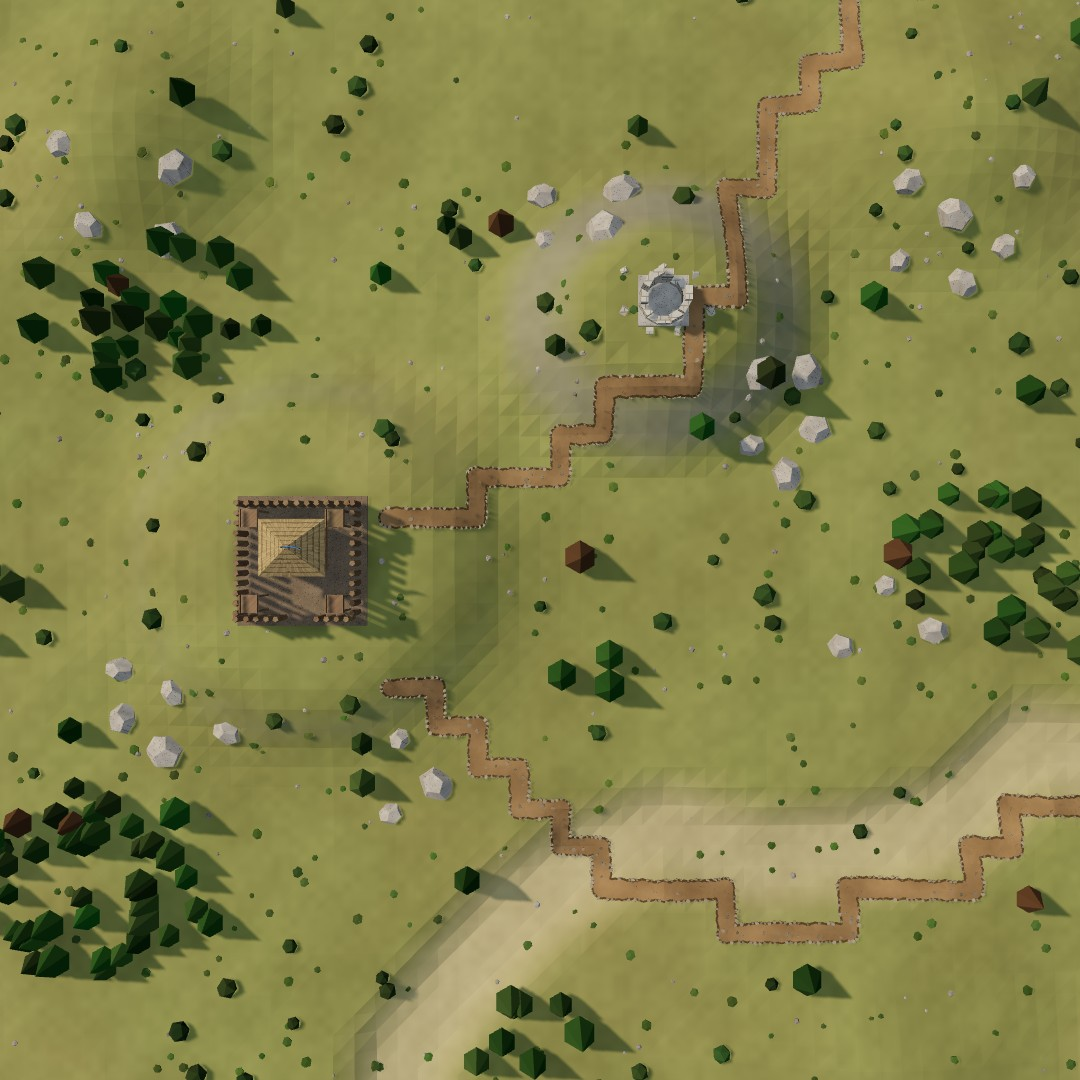
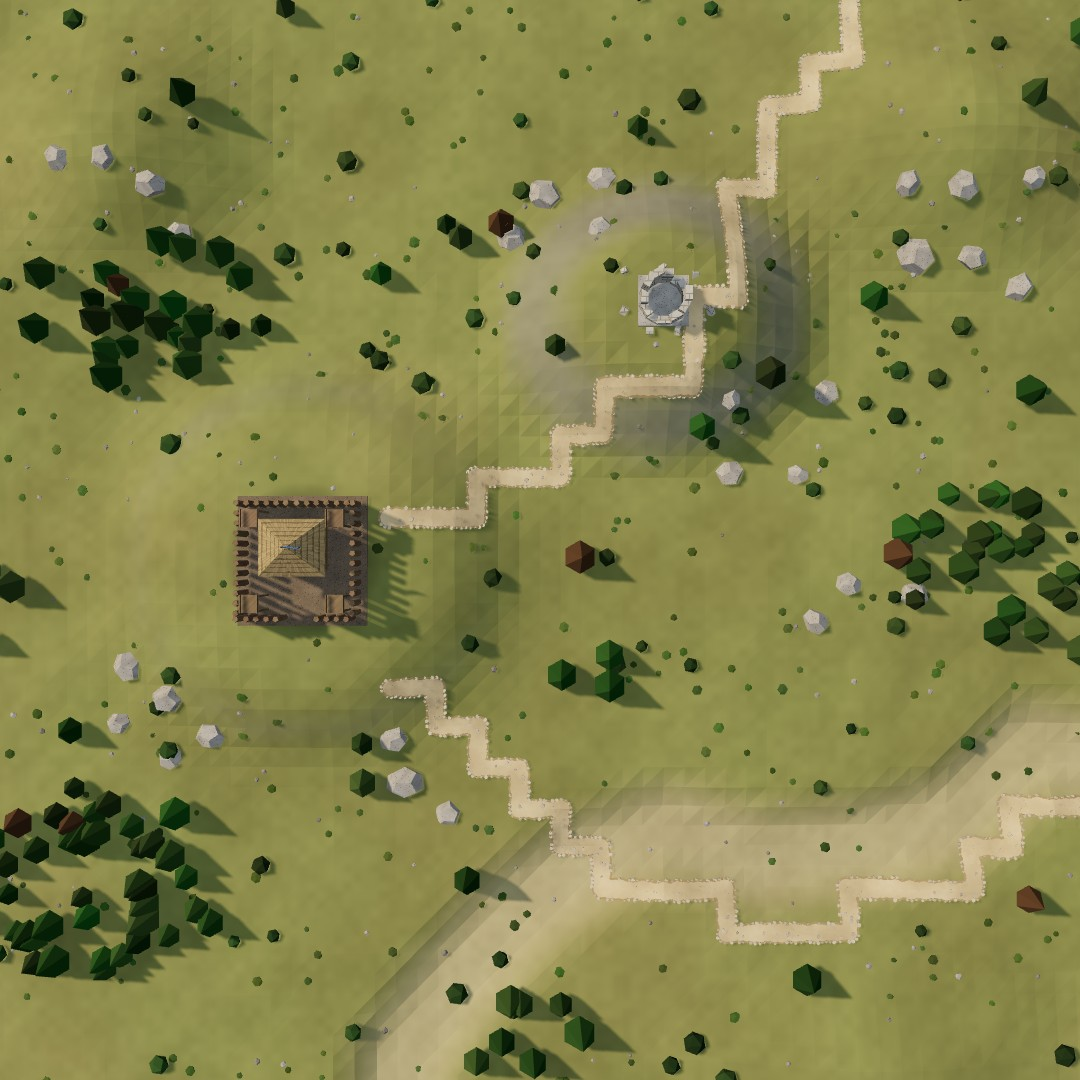
Path looks by map (gravel on Watchhill, scree on Mountain pass); stage town picker with locked options
Claude-Session: https://claude.ai/code/session_01AE8sRRsVdpH9ETfQvtppox

diff --git a/index.html b/index.html
@@ -136,6 +136,7 @@ button.danger{border-color:#6b3a33;color:var(--bad)}
 .ldOpt .tIco{width:24px;height:24px;flex:0 0 auto;display:inline-flex;color:#cfc4a6} .ldOpt .tIco svg{width:100%;height:100%;fill:none;stroke:currentColor;stroke-width:1.7;stroke-linecap:round;stroke-linejoin:round} .ldOpt[aria-pressed="true"] .tIco{color:var(--gold)} .ldOpt b{font-family:var(--display);font-weight:400;font-size:16px;color:var(--parch);line-height:1.05;display:block}
 .ldOpt small{display:block;font-size:11px;color:var(--muted)} .ldOpt small .cost .ico{width:11px;height:11px}
 .ldOpt[aria-pressed="true"]{border-color:var(--gold);background:#2e2b1e} .ldOpt[aria-pressed="true"] b{color:var(--gold)}
+.ldOpt.locked{opacity:.5;cursor:default} .ldOpt.locked b{color:var(--muted)} .lockIco{width:13px;height:13px;fill:none;stroke:currentColor;stroke-width:2;stroke-linecap:round;vertical-align:-2px} .ldOpt .tIco .lockIco{width:100%;height:100%;stroke-width:1.7}
 .ldGrid{display:grid;grid-template-columns:repeat(auto-fill,minmax(96px,1fr));gap:6px}
 .ldGrid .ldOpt{flex-direction:column;justify-content:center;align-items:center;text-align:center;gap:3px;padding:6px 4px} .ldGrid .ldOpt b{font-size:14px}
 .ldBtns{display:flex;justify-content:space-between;gap:8px;margin-top:4px} .ldBtns button{min-width:110px;min-height:42px;font-size:16px}
@@ -626,7 +627,7 @@ const CAMP_MAPS = {
   vale: { stop: 0, maxTier: 1, cats: { eco: ['house', 'farm', 'lodge', 'quarry'], def: ['tower'], decor: ['road', 'flowers', 'torch'] } },
   bridge: { stop: 1, maxTier: 1, cats: { eco: ['house', 'farm', 'lodge', 'quarry'], def: ['tower', 'barracks', 'wall', 'gate'], decor: ['road', 'flowers', 'torch', 'rack'] } },
   cross: { stop: 2, maxTier: 2, newTier: 2, cats: { eco: ['house', 'farm', 'lodge', 'quarry', 'market'], def: ['tower', 'barracks', 'wall', 'gate'], decor: ['road', 'flowers', 'torch', 'rack', 'statue'] } },
-  watch: { stop: 3, maxTier: 2, cats: { eco: ['house', 'farm', 'lodge', 'quarry', 'market'], def: ['tower', 'ballista', 'barracks', 'wall', 'gate'], decor: ['road', 'torch', 'rack', 'statue', 'campfire'] } },   // five decor tools keep a phone's dock one row: flowers make way for the campfire
+  watch: { stop: 3, maxTier: 2, cats: { eco: ['house', 'farm', 'lodge', 'quarry', 'market'], def: ['tower', 'ballista', 'barracks', 'wall', 'gate'], decor: ['road', 'flowers', 'torch', 'rack', 'statue', 'campfire'] } },   // more decor than fits: the player picks four (stage picker)
 };
 var WAVES = WAVES_STD, NIGHTS = WAVES.length, DAYLEN = [300, 150, 150, 150, 150], SPAWN_GAP = 1.1;
 function mapRules() { const R = MAP_RULES[MAP]; WAVES = R ? R.waves : WAVES_STD; NIGHTS = WAVES.length; DAYLEN = R ? R.day : [300, 150, 150, 150, 150]; SPAWN_GAP = R ? R.spawnGap : 1.1; }
@@ -1507,11 +1508,20 @@ function roadMask(a, b) {
   for (const B of buildings) { const d = B.door; if (d && d.a === a && d.b === b) m |= d.bit; }
   return m;
 }
+// path looks by map (sRGB): packed brown earth on the green maps; a pale chalky gravel track on Watchhill's dry hills;
+// grey scree on Mountain pass; base = the darker worn edge, set = flat set stones, kerb = the edge stones
+const PATH_STYLE = {
+  earth:  { top: [.47, .38, .27], base: '#4e3f2a', set: [.37, .34, .29], kerb: [.4, .38, .33] },
+  gravel: { top: [.68, .6, .45], base: '#8a7754', set: [.56, .52, .45], kerb: [.58, .54, .46] },
+  scree:  { top: [.5, .48, .44], base: '#47443d', set: [.56, .55, .53], kerb: [.6, .59, .56] },
+};
+const pathStyle = () => PATH_STYLE[MAP === 'watch' ? 'gravel' : MAP === 'pass' ? 'scree' : 'earth'];
+const lin = (sc, c, h, k) => sc.setRGB(((c[0] + k * h) ** 2.2), ((c[1] + k * .85 * h) ** 2.2), ((c[2] + k * .7 * h) ** 2.2));
 // packed earth: smooth, low-contrast colour drift by position (no per-square checker), lighter where feet wear it
 const pathTmp = new THREE.Color();
 function pathCol(x, z, col) {
   const n = .5 + .25 * Math.sin(x * 2.3 + z * 1.1) + .25 * Math.sin(x * .9 - z * 2.7), j = hash(Math.round(x * 4), Math.round(z * 4));
-  pathTmp.setRGB(.47, .38, .27).multiplyScalar(.88 + .16 * n + .06 * j);    // sRGB, converted below to match the patched colours
+  pathTmp.setRGB(...pathStyle().top).multiplyScalar(.88 + .16 * n + .06 * j);    // sRGB, converted below to match the patched colours
   col.push(pathTmp.r ** 2.2, pathTmp.g ** 2.2, pathTmp.b ** 2.2);
 }
 // the stone-based building whose footprint holds this point, if any; paths stop at its edge rather than painting over it
@@ -1546,6 +1556,7 @@ function setGeo(mesh, arr, col) {
   g.computeVertexNormals(); mesh.geometry.dispose(); mesh.geometry = g;
 }
 function rebuildRoads() {
+  const PS = pathStyle(); roadMatBase.color.set(PS.base);
   const base = [], top = [], tc = [], stones = [], doors = {}, edge = [];
   for (const B of buildings) if (B.door && !B.dead) { const [sx, sz] = doorShift(B); if (sx || sz) doors[B.door.b * N + B.door.a] = { bit: B.door.bit, sx, sz }; }
   for (let b = 0; b < N; b++) for (let a = 0; a < N; a++) if (road[b * N + a]) {
@@ -1575,14 +1586,14 @@ function rebuildRoads() {
     const r = .06 + .06 * hash(k, 1.3), h = hash(k, 7.7);
     dummy.position.set(x, hAt(x, z) + .1, z); dummy.rotation.set((h - .5) * .12, h * 6.3, (hash(k, 4.4) - .5) * .12); dummy.scale.set(r, .06, r * (.75 + .4 * h)); dummy.updateMatrix();
     pathStones.setMatrixAt(n, dummy.matrix);
-    sc.setRGB(.37 + .1 * h, .34 + .09 * h, .29 + .07 * h); sc.setRGB(sc.r ** 2.2, sc.g ** 2.2, sc.b ** 2.2); pathStones.setColorAt(n, sc); n++;
+    lin(sc, PS.set, h, .1); pathStones.setColorAt(n, sc); n++;
   }
   for (const [x, z] of kerb) {
     if (n >= MAX_PSTONES) break;
     const h = hash(x * 5.1, z * 3.7), r = .05 + .045 * h;
     dummy.position.set(x, hAt(x, z) + .07, z); dummy.rotation.set((h - .5) * .2, h * 6.3, (hash(z, x) - .5) * .2); dummy.scale.set(r, .09, r * (.8 + .4 * h)); dummy.updateMatrix();
     pathStones.setMatrixAt(n, dummy.matrix);
-    sc.setRGB(.4 + .12 * h, .38 + .1 * h, .33 + .08 * h); sc.setRGB(sc.r ** 2.2, sc.g ** 2.2, sc.b ** 2.2); pathStones.setColorAt(n, sc); n++;
+    lin(sc, PS.kerb, h, .12); pathStones.setColorAt(n, sc); n++;
   }
   pathStones.count = n; pathStones.instanceMatrix.needsUpdate = true; if (pathStones.instanceColor) pathStones.instanceColor.needsUpdate = true;
   seatClutter();
@@ -5916,9 +5927,19 @@ try {   // last game's picks; anything unknown falls back to the default
     if (D && D.length === DECOR_PICK && D.every(t => DECOR_ALL.includes(t))) LOADOUT.decor = D; }
 } catch (e) {}
 const LOAD_TAG = { ranged: 'Ranged', siege: 'Siege', barracks: 'Troops' };
+// a campaign stage with more decor unlocked than DECOR_PICK lets the player choose four on the town picker (the rest shown locked);
+// the picks are kept per stage in localStorage['mtd-stage-decor'], by default the newest four
+const stageDecorAll = m => CAMP_MAPS[m].cats.decor.filter(t => t !== 'road');
+const stagePicks = m => stageDecorAll(m).length > DECOR_PICK;
+var STAGE_DECOR = {}; try { STAGE_DECOR = JSON.parse(localStorage.getItem('mtd-stage-decor') || '{}') || {}; } catch (e) {}
+function stageDecor(m) {
+  const all = stageDecorAll(m), d = STAGE_DECOR[m];
+  return Array.isArray(d) && d.length === DECOR_PICK && d.every(t => all.includes(t)) ? d.slice() : all.slice(-DECOR_PICK);
+}
+var stagePick = null;   // the stage map whose picks the town picker is showing (null: free play's loadout)
 function applyLoadout() {
   const CM = CAMP_MAPS[MAP], L = CM ? { ...LOADOUT, food: 'farm', wood: 'lodge', stone: 'quarry', ranged: 'tower' } : LOADOUT;
-  if (CM) Object.assign(CATS, JSON.parse(JSON.stringify(CM.cats)));
+  if (CM) { Object.assign(CATS, JSON.parse(JSON.stringify(CM.cats))); if (stagePicks(MAP)) { const d = stageDecor(MAP); CATS.decor = ['road', ...stageDecorAll(MAP).filter(t => d.includes(t))]; } }
   else { CATS.eco = ['house', L.food, L.wood, L.stone, 'market']; CATS.def = [L.ranged, L.siege, L.barracks, 'wall', 'gate']; CATS.decor = ['road', ...L.decor]; }
   // the first day's guide follows the picks (a stage may have its own)
   GUIDE = [];
@@ -5930,25 +5951,40 @@ function applyLoadout() {
     { text: 'Upgrade a building', tool: 'select', done: () => buildings.some(B => B.tier > 1 || (B.site && B.site.kind === 'up')) });
   if (tierCap() < 2) GUIDE.pop();   // no upgrades on this stage
 }
+const LOCK_ICO = '<svg class="lockIco" viewBox="0 0 24 24"><rect x="5" y="11" width="14" height="10" rx="2"/><path d="M8 11 V8 a4 4 0 0 1 8 0 V11"/></svg>';
 function renderLoadPick() {
-  const L = LOADOUT, opt = (t, on, slot) => `<button class="ldOpt" data-slot="${slot}" data-t="${t}" aria-pressed="${on}"><span class="tIco">${TOOL_ICON[t]}</span><span><b>${DEF[t].name}</b><small>${costHTML(DEF[t].cost)}</small></span></button>`;
+  // on a stage: what it has unlocked is fixed (or, for decor, picked), everything else shows a lock
+  const SM = stagePick && CAMP_MAPS[stagePick], open = SM ? new Set([...SM.cats.eco, ...SM.cats.def, ...SM.cats.decor]) : null;
+  const L = SM ? { ...Object.fromEntries([...LOAD_SLOTS.eco, ...LOAD_SLOTS.def].map(([slot, opts]) => [slot, opts.find(t => open.has(t))])), decor: STAGE_DECOR[stagePick] } : LOADOUT;
+  const lk = t => open && !open.has(t);
+  const opt = (t, on, slot) => `<button class="ldOpt${lk(t) ? ' locked' : ''}" data-slot="${slot}" data-t="${t}" aria-pressed="${on}"><span class="tIco">${TOOL_ICON[t]}</span><span><b>${DEF[t].name}</b><small>${lk(t) ? LOCK_ICO : costHTML(DEF[t].cost)}</small></span></button>`;
   for (const k of ['eco', 'def']) $(k === 'eco' ? '#ldEco' : '#ldDef').innerHTML = LOAD_SLOTS[k].map(([slot, opts]) =>
     `<div class="ldRow"><span class="ldCat">${k === 'eco' ? `<span class="ico">${ICON[slot]}</span>` : `<span class="tag">${LOAD_TAG[slot]}</span>`}</span>${opts.map(t => opt(t, L[slot] === t, slot)).join('')}</div>`).join('');
-  $('#ldDecor').innerHTML = DECOR_ALL.map(t => `<button class="ldOpt" data-slot="decor" data-t="${t}" aria-pressed="${L.decor.includes(t)}"><span class="tIco">${TOOL_ICON[t]}</span><b>${t === 'road' ? 'Path' : DEF[t].name}</b></button>`).join('');
-  const n = L.decor.length; $('#ldDecN').textContent = `${n}/${DECOR_PICK}`; $('#ldDecN').classList.toggle('short', n !== DECOR_PICK); $('#ldStart').disabled = n !== DECOR_PICK;
+  $('#ldDecor').innerHTML = DECOR_ALL.map(t => `<button class="ldOpt${lk(t) ? ' locked' : ''}" data-slot="decor" data-t="${t}" aria-pressed="${!lk(t) && L.decor.includes(t)}"><span class="tIco">${lk(t) ? LOCK_ICO : TOOL_ICON[t]}</span><b>${t === 'road' ? 'Path' : DEF[t].name}</b></button>`).join('');
+  $('#ldBack').textContent = SM ? 'Back' : 'Maps';
+  const n = (L.decor || []).length; $('#ldDecN').textContent = `${n}/${DECOR_PICK}`; $('#ldDecN').classList.toggle('short', n !== DECOR_PICK); $('#ldStart').disabled = n !== DECOR_PICK;
 }
 $('#loadPick').addEventListener('click', e => {
   const b = e.target.closest('.ldOpt'); if (!b) return;
-  const L = LOADOUT, t = b.dataset.t;
+  if (stagePick && (b.classList.contains('locked') || b.dataset.slot !== 'decor')) { if (b.classList.contains('locked')) sfx('nope'); return; }   // a stage's buildings are set
+  const L = stagePick ? { decor: STAGE_DECOR[stagePick] } : LOADOUT, t = b.dataset.t;
   if (b.dataset.slot !== 'decor') L[b.dataset.slot] = t;
   else if (L.decor.includes(t)) L.decor = L.decor.filter(x => x !== t);
   else if (L.decor.length < DECOR_PICK) L.decor.push(t);
   else { sfx('nope'); return; }
+  if (stagePick) STAGE_DECOR[stagePick] = L.decor;
   sfx('click'); renderLoadPick();
 });
-function showLoadPick() { renderLoadPick(); $('#loadPick').hidden = false; $('#loadPick').scrollTop = 0; }
-$('#ldBack').addEventListener('click', () => { $('#loadPick').hidden = true; showMapPick(); });
+function showLoadPick(stage) {
+  stagePick = stage || null; if (stagePick) STAGE_DECOR[stagePick] = stageDecor(stagePick);
+  renderLoadPick(); $('#loadPick').hidden = false; $('#loadPick').scrollTop = 0; }
+$('#ldBack').addEventListener('click', () => { $('#loadPick').hidden = true; if (stagePick) { stagePick = null; openCampaign(CAMP_MAPS[MAP].stop); } else showMapPick(); });
 $('#ldStart').addEventListener('click', () => {
+  if (stagePick) {
+    if (STAGE_DECOR[stagePick].length !== DECOR_PICK) return;
+    try { localStorage.setItem('mtd-stage-decor', JSON.stringify(STAGE_DECOR)); } catch (e) {}
+    stagePick = null; $('#loadPick').hidden = true; $('#campaign').hidden = true; paused = false; startGame(); return;
+  }
   if (LOADOUT.decor.length !== DECOR_PICK) return;
   try { localStorage.setItem('mtd-loadout', JSON.stringify(LOADOUT)); } catch (e) {}
   $('#loadPick').hidden = true; paused = false; startGame();
@@ -6187,7 +6223,11 @@ function openStage(i) {
   $('#stNew').innerHTML = c.adds.map(t => `<span>${TOOL_ICON[t] || ''}${t === 'road' ? 'Path' : DEF[t].name}</span>`).join('');
   $('#stStars').innerHTML = starsHTML(c.map ? STARS[c.map] || 0 : 0);
   $('#stPlay').innerHTML = c.map ? '<button class="primary" id="campPlay">Play</button>' : '';
-  if (c.map) $('#campPlay').addEventListener('click', () => { MAP = c.map; $('#stagePrev').hidden = true; $('#campaign').hidden = true; $('#mapPick').hidden = true; paused = false; startGame(); });
+  if (c.map) $('#campPlay').addEventListener('click', () => {
+    MAP = c.map; $('#stagePrev').hidden = true; $('#mapPick').hidden = true;
+    if (stagePicks(MAP)) { showLoadPick(MAP); return; }   // more decor than fits: choose four first
+    $('#campaign').hidden = true; paused = false; startGame();
+  });
   $('#stagePrev').hidden = false;
 }
 $('#stBack').addEventListener('click', () => { $('#stagePrev').hidden = true; });

diff --git a/CLAUDE.md b/CLAUDE.md
@@ -70,7 +70,8 @@ The whole game is currently one self-contained file: `index.html` (~165 KB, thre
 - **Greenvale** (`MAP` 'vale', campaign stop 1, the tutorial; played from the campaign screen's Play button or `?map=vale`, not in the map picker): a small green valley (`VALE`: about 33 m across round (27, 31), an uneven rim from `fbm`, about 260 open cells against the usual 784) closed in by gentle wooded hills nobody may walk or build on (`valeAt` depth, `valeOpen`; `mapOpen(x, z)` covers both bounded maps in `canStand`, `cellPass` and `evaluate` "Too steep"), open only to the north-east, where a 14 m wide pass (`VALE.w`; 9 m was too narrow for Jack) (`VALE.gap`) runs out to the map's corner: every raider spawns well inside its mouth on the top or right edge (`edgePoint`) and comes that way. The hills stay green (`recolor` only tints much steeper ground as rock there), mostly open grass with patches of out-of-reach `deco` woods (Jack found them too thickly wooded twice). Plenty to gather, but natural (Jack found the first version too thickly wooded and its rock clusters too tight): a thin band of trees round the rim and up the pass's sides (its middle 3.5 m kept clear), a few copses in the meadow (about 75 trees in reach), and about 40 rocks, all near the foot of the hills (Jack wants stone by the hill ground, not out in the meadow): 6 loose groups of 3–5 spread over 8 m just inside the rim (`pickValeRocks`, `VALE_ROCK_C`, depth 1–2.6 m) plus 16 single rocks within 4.5 m of it, none in the pass. Castle at `KX/KZ` 25,33 (cells 11–13, 15–17); the camera starts from the south-west so the way in is at the top of the screen. Rules (`MAP_RULES.vale`): 3 nights (4 spears; 6 spears + 2 archers; 8 spears + 3 archers, all tier 1), days 180/120/120 s (3, 2, 2 minutes: Jack's call), spawn gap 1.6 s, start gold 60 wood 45 stone 10 food 30 (`res` in the rules, read by `startGame`). Its buildings come from `CAMP_MAPS.vale.cats` (house, fields, lumber, quarry; archers; path, flowers, torch), not the loadout (`applyLoadout`; number keys only pick tools in the dock); the guided first day runs every time (`guideOn` set in `startGame`). Stars are kept under `STARS.vale` and shown on its campaign card; Restart and Play again go back to the campaign (`showStart`, `openCampaign`).
 - **Stonebridge** (`MAP` 'bridge', Stage 2; from the campaign or `?map=bridge`): a river winding from the east edge to the west (`stoneRiverZ(x)`, flowing west: the water shader's `uIsle` 2 and `flowVel`), the town on the south bank, the raiders' woods on the north bank, low hills along the south edge. One old **stone bridge** north of the castle (`BRIDGE_X` 28.5, square across the river, `bridgeRays` → `stone: true` → `makeStoneBridge`: a paved deck on a solid stone span, low parapets, piers with a cutwater upstream where it stands in water, stone landings; `b.ex/ez` its southern end) and upstream a **ford** (`FORD_X` 46.5: the river bed rises to a gravel bar at .6–.66, above the .45 raiders' routes need, with gentle banks down to it over ~10 m (`ramp`): a grassy strip across the river (Jack preferred it to a translucent sheet of shallow water, which was tried and dropped); workers (mode 1) can cross it too, plain villagers can't). Castle at `KX/KZ` 29,37 (cells 13–15, 17–19); camera from the south (`yaw` 0), the river at the top. A **half-built palisade** stands along the town's bank from edge to edge (`bankWall()` in `startGame`, `BANK_D` 7.2 m south of the river's middle, past the bank's slope; each column's cell nudged south off the bridge, the slope and the wet; steps joined on their southern side; placed free and instant), left open at the bridge's southern end (1 cell: a gate), at the ford (3 cells) and in one stretch to the west (3 cells): the new player closes it with a gate and a few walls (`BANK_WALL` lists every cell of the line). Woods: thick on the north bank, a wood in the south-west and one in the south-east, lone trees; stone: 10 rocks just inside the wall west of the castle, 9 by the southern hills, 5 on the north bank (never on the wall's line). Raiders spawn on the north edge (`edgePoint`): toward the bridge (x 10–34) on nights 1–2; from night 3 two in five come from the north-east (x 40–54) and cross at the ford. Rules (`MAP_RULES.bridge`): 4 nights (5 spears; 6 spears + 3 swords; + 3 archers; 10 spears, 6 swords, 3 archers: no ram, Jack keeps rams for later stages), days 240/120/120/120 s (4 minutes, then 2 per wave: Jack's call), spawn gap 1.4 s, start gold 60 wood 45 stone 20 food 30. Buildings (`CAMP_MAPS.bridge.cats`): Stage 1's plus barracks, wall, gate and weapon rack. No guided day (only Stage 1, the tutorial, has one; `guideOn` is set only for 'vale'; `applyLoadout` still takes a stage's own `guide` if one is ever given). Instead, every stage after the first opens with its **new building cards** (`showNewCards(CAMPAIGN[stop].adds)`, `#newCards`, `renderNewCard`, `newCardStats`): over the paused game, one card per new building or decor, each popping up with `SND.alert` (`Alert_sound.mp3`): "New · 1/4", name, (a 3D picture of the building on a cream panel was tried and dropped: Jack's call) cost and tier-1 stats as icon + number (health; housing, gold, food, workers, reach; archers, damage, range; soldiers and their damage; a decor's effects and charm), Next, and Play on the last, which unpauses. Preview picture `maps/bridge.jpg`.
 - **Market Cross** (`MAP` 'cross', Stage 3; from the campaign or `?map=cross`): a gentle meadow (`crossHeight`), a low rise to the north-east, a narrow brook in the south-east corner (`CROSS_BROOK`). Two old roads, laid as paths at the start (`CROSS_ROADS`, `crossTown()` in `startGame`: cell by cell, diagonal steps joined), cross at `CROSS_AT` (24, 30), north-east of the castle (`KX/KZ` 17,39, `findValid('castle', 7, 18)`); an old stone market cross stands at the junction (a free statue whose model is swapped for `makeMarketCross`: three steps, shaft, cross head; its charm lifts the hamlet's gold), and a hamlet of three free houses round it. Plenty of wood (woods west, south-west, on the north-east rise and south-east; lone trees; none on the roads), only five rocks (three under the rise): trade for stone at the market. Raiders come down the north road (top edge, x 24–30); from night 3 about 45% along the east road (right edge, z 22–28) (`edgePoint`). Rules (`MAP_RULES.cross`): 4 nights (6 spears; 6 spears + 4 swords; 6 spears, 4 swords, 3 archers, 3 horse spears; 8 spears, 5 swords, 4 archers, 4 horse spears, 2 horse swords: Jack wanted more horses on nights 3 and 4), days 240/120/120/120 s, spawn gap 1.3 s, start gold 60 wood 45 stone 0 food 30. Buildings (`CAMP_MAPS.cross.cats`): Stage 2's plus market and statue; new-building cards for them. No guided day (the startup `guideOn` read also keeps it off for campaign stages after the first). Preview `maps/cross.jpg`.
-- **Watchhill** (`MAP` 'watch', Stage 4; from the campaign or `?map=watch`; built from `design/stages/stage4-watchhill.svg`): dry golden hills (`watchHeight`: `WATCH_HILLS` x, z, radii, height, flat top; `recolor` tints it toward `C.dry` and the gully sandy), no water. The castle on a flat hilltop (`KX/KZ` 17,29, `findValid('castle', 7, 13)`), Watch hill to its north-east with an old ruined tower on its flat top (`WATCH_RUIN`, `placeRuin`: a broken stone ring and fallen blocks, scenery: `evaluate` "Ruin", `canStand` and `cellPass` keep everyone off it), a place for the stage's ballista and campfire with long sightlines down the slopes. A dry sandy gully (`WATCH_GULLY`, 1.1 m lower) winds in from the east edge; two tracks are laid as paths at the start (`WATCH_ROADS`, `layRoads`, shared with Market Cross): the valley track up the gully to the castle and the ridge track from the north edge past the ruin. Little wood (scrub in four hollows, lone trees), plenty of stone (7 loose groups on the slopes). Raiders come up the gully from the east edge (z 37–43); from night 3 about 40% down the ridge track from the north edge (x 39–46). Rules (`MAP_RULES.watch`): 5 nights (6 spears + 2 archers; 8 spears, 4 swords, 2 archers; + 3 horse spears; tier-2 spears and swords, 4 archers, 2 horse swords; then crossbows and the campaign's first ram), days 300/120/120/120/120 s (5 minutes first: Jack's call), spawn gap 1.2 s, start gold 50 wood 30 stone 0 food 30. Buildings (`CAMP_MAPS.watch.cats`): Stage 3's plus ballista and campfire; flowers dropped from its decor so the dock keeps five decor tools (one row on a phone); tier 2 stays open. Preview `maps/watch.jpg`.
+- **Watchhill** (`MAP` 'watch', Stage 4; from the campaign or `?map=watch`; built from `design/stages/stage4-watchhill.svg`): dry golden hills (`watchHeight`: `WATCH_HILLS` x, z, radii, height, flat top; `recolor` tints it toward `C.dry` and the gully sandy), no water. The castle on a flat hilltop (`KX/KZ` 17,29, `findValid('castle', 7, 13)`), Watch hill to its north-east with an old ruined tower on its flat top (`WATCH_RUIN`, `placeRuin`: a broken stone ring and fallen blocks, scenery: `evaluate` "Ruin", `canStand` and `cellPass` keep everyone off it), a place for the stage's ballista and campfire with long sightlines down the slopes. A dry sandy gully (`WATCH_GULLY`, 1.1 m lower) winds in from the east edge; two tracks are laid as paths at the start (`WATCH_ROADS`, `layRoads`, shared with Market Cross): the valley track up the gully to the castle and the ridge track from the north edge past the ruin. Little wood (scrub in four hollows, lone trees), plenty of stone (7 loose groups on the slopes). Raiders come up the gully from the east edge (z 37–43); from night 3 about 40% down the ridge track from the north edge (x 39–46). Rules (`MAP_RULES.watch`): 5 nights (6 spears + 2 archers; 8 spears, 4 swords, 2 archers; + 3 horse spears; tier-2 spears and swords, 4 archers, 2 horse swords; then crossbows and the campaign's first ram), days 300/120/120/120/120 s (5 minutes first: Jack's call), spawn gap 1.2 s, start gold 50 wood 30 stone 0 food 30. Buildings (`CAMP_MAPS.watch.cats`): Stage 3's plus ballista and campfire; its six decor don't fit a phone's dock, so Play opens the **stage town picker** first (below); tier 2 stays open. Preview `maps/watch.jpg`.
+- **Stage town picker** (Jack's design): a stage with more decor unlocked than `DECOR_PICK` (`stagePicks(map)`: Watchhill on) opens the Choose-your-town screen from its preview's Play (`showLoadPick(map)`, `stagePick`): its buildings are set (the unlocked one of each pair picked, the other locked), the decor it has unlocked are picked four of, and everything not unlocked yet shows a padlock (`LOCK_ICO`, `.ldOpt.locked`, a tap knocks `nope`); Back returns to the stage preview, Start plays. Picks per stage in `localStorage['mtd-stage-decor']` (`STAGE_DECOR`, `stageDecor(map)`: by default the newest four); `applyLoadout` trims the stage's decor to them (in `cats` order), so `?map=watch` uses them too.
 - **Tiers by stage** (`maxTier` in `CAMP_MAPS`, `tierCap()`): Stages 1 and 2 stay at tier 1 (no Upgrade button, `upgrade` refuses; Stage 1's guide drops its upgrade step), Stage 3 opens tier 2 (`newTier: 2` adds a "Tier 2" card after its building cards: "Upgrades", then house housing / gold and archer damage as before → after); free play has all three.
 - Raiders pick targets by walking distance, never a straight line across water (`pickTarget` → `reachTarget`: `landField` is a breadth-first cell count over land and bridges, buildings counted as open since they break through; unreachable buildings are skipped) and route on the cell grid with `walkTo` (mode 2) toward a fixed point on the side they reach first (`e.tp`, reset on each 3 s retarget); when buildings or walls close every route, `walkTo` falls back to a mode-3 path (`cellPass` mode 3 ignores occupancy) so they walk to whatever blocks the way and break it (they used to walk straight at the target and stand at a riverbank on River isle); straight `steer` only within 3 m and over open ground (`clearLine`); `edgePoint` falls back to mode-3 routes for a walled-in town; a wall in the way (stuck or 3.5 s without progress) is attacked as before. A raider spawned a metre or so from its point never lands on ground it can't stand on (`spawnEnemy` falls back to the point itself). Spawn points (`edgePoint`) must be walkable (`cellPass` mode 2) and have a route to the castle's door (a route to the castle's centre never exists: it is inside the building), else raiders spawned on steep edge hills stood stuck.
 - No building over a rock (`evaluate`: "Rocks"), so stone is never buried.
@@ -138,7 +139,7 @@ Roof colours: tier 3 roofs use `M.roofBlue` (blue is the town's colour, red the 
 - **Terrain**: heightmap, 1 m vertex spacing (V=57). Placing a building snaps to cells, checks slope, flattens with smoothstep falloff, locks the footprint, lays a dirt splat, adds a plinth and clears trees. "Adapt terrain" is always on.
 - **Auto-tiling**: bitmask N=1 E=2 S=4 W=8 for paths and walls/gates (`wallMask`, `refreshWalls`, `swapModel`).
 - **Wall/gate rotation**: `B.rot` (0 = E–W, 1 = N–S) from `placeRot` (Rotate button in the dock / R while the wall or gate tool is active; ghosts rebuilt via `makeGhost`). A lone wall (mask 0) is a straight run along `rot`; connected walls auto-tile as before. A gate follows walls on one axis, else `rot`; rotating from the card (`rotateBuilding`, also R with it selected) sets `rotFixed` so it keeps that direction. Passability is unchanged (gates pass villagers either way).
-- **Paths**: packed-earth tracks built from overlapping discs (centre + 3 per connected arm, radius wobbling by world position so neighbours agree): darker, wider base layer (`#4e3f2a`, radius .5) for a defined worn edge, smooth position-based colour on top, flat set stones, and a kerb of small stones along the outer edge (`rebuildRoads`: points on each base disc's rim outside every other disc, a few gaps by hash; all in `pathStones`, `MAX_PSTONES` N·N·24) (`pathStones` InstancedMesh; `frustumCulled=false` and `instanceColor` pre-sized, both needed in r128).
+- **Paths**: look by map (`PATH_STYLE`, `pathStyle()`: top colour, worn-edge `roadMatBase` colour, set stones, kerb): packed brown earth on the green maps, pale chalky gravel on Watchhill (brown earth looked wrong on its golden grass), grey scree on Mountain pass. Packed-earth tracks built from overlapping discs (centre + 3 per connected arm, radius wobbling by world position so neighbours agree): darker, wider base layer (`#4e3f2a`, radius .5) for a defined worn edge, smooth position-based colour on top, flat set stones, and a kerb of small stones along the outer edge (`rebuildRoads`: points on each base disc's rim outside every other disc, a few gaps by hash; all in `pathStones`, `MAX_PSTONES` N·N·24) (`pathStones` InstancedMesh; `frustumCulled=false` and `instanceColor` pre-sized, both needed in r128).
 - **Pathfinding**: A* on cells (`findPath`, `cellPass`, `walkTo`), `clearLine` line-of-sight shortcuts, `unstick` after 3.5 s without progress, cache invalidated on any build/path change. `steer`/`turnTo` commit to one side round obstacles. Villagers enter/exit buildings via their door.
 - **Connectivity** (`regions()`: cells numbered by a 4-neighbour flood over `cellPass(n, 1)`, bridges only through their ends; lazy, `regionDirty` set by `cacheCells`, `place`, `removeBuilding`, `completeSite`, `rotateBuilding`; `mainRegion()` = the castle door's): `evaluate` runs `cutsOff` for each allowed facing and refuses a spot that would seal any door, site or tower off from the castle ("Blocks the way", walls "Blocks the way · use a gate"), whose own door would be sealed in ("Door cut off") or that can't be reached at all ("No way there"); a card Rotate skips a facing whose door is sealed in. Builders are only sent to sites with a ring cell (`ringCells`) in their region (`villagerRegion`: indoors = that building's door), `workSpot` only offers spots in it, and a builder with no spot or four failed spots drops the site for 15 s (`dropBuild`, `v.noBuild`). Lumberjacks and masons only claim trees/rocks in their camp door's region. Anyone still out in a pocket off the castle's region for 3 s of daylight (terrain changes can still make one) is hopped to the nearest joined-up ground with dust (`freeTrapped`, `v.trapT`). (Builders used to stand stuck for good when later buildings boxed in a site, a door or the ground they stood on.)
 - **Villager states**: wander, visit, commute, find, go, work, home, drop, building, hungry/sleeping, night posts.
